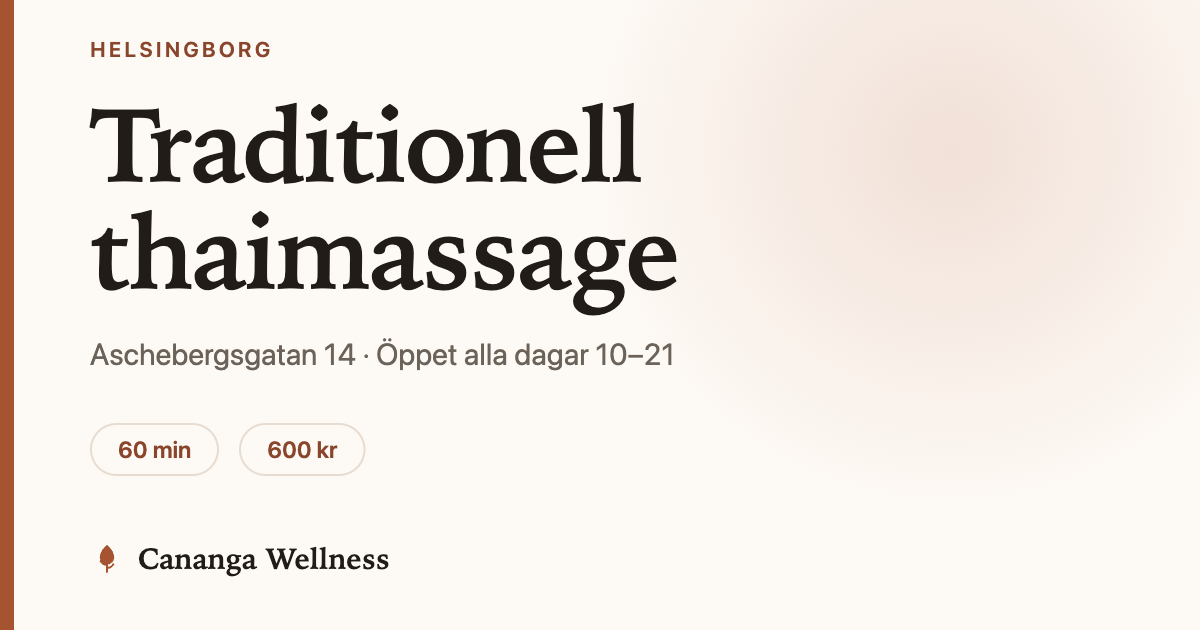
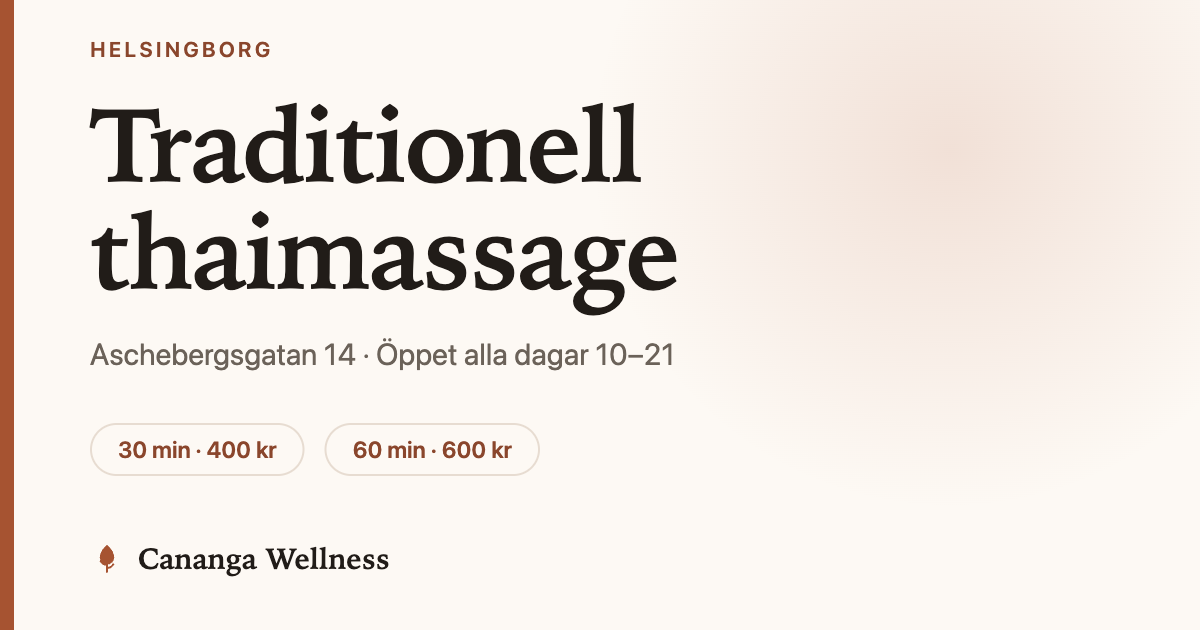
Lägg till Thaimassage 30 minuter för 400 kr
Ny behandling i översikten, med matchande Offer i JSON-LD. priceRange
blir 400–600 kr. Meta- och OG-beskrivningar samt delningsbilden visar
nu båda längderna.

Changed region(s): [[0.0925, 0.6635, 0.4317, 0.754]]

diff --git a/index.html b/index.html
@@ -5,7 +5,7 @@
 <meta name="viewport" content="width=device-width, initial-scale=1">
 
 <title>Cananga Wellness – Traditionell thaimassage i Helsingborg</title>
-<meta name="description" content="Traditionell thaimassage i Helsingborg. 60 minuters behandling för 600 kr. Öppet alla dagar 10–21 på Aschebergsgatan 14. Boka tid online.">
+<meta name="description" content="Traditionell thaimassage i Helsingborg. 30 min för 400 kr eller 60 min för 600 kr. Öppet alla dagar 10–21 på Aschebergsgatan 14. Boka tid online.">
 <link rel="canonical" href="https://peraakesson-cloud.github.io/cananga-wellness/">
 
 <meta name="theme-color" content="#FDF9F4">
@@ -16,7 +16,7 @@
 <meta property="og:locale" content="sv_SE">
 <meta property="og:site_name" content="Cananga Wellness">
 <meta property="og:title" content="Cananga Wellness – Traditionell thaimassage i Helsingborg">
-<meta property="og:description" content="60 minuters traditionell thaimassage för 600 kr. Öppet alla dagar 10–21 på Aschebergsgatan 14 i Helsingborg.">
+<meta property="og:description" content="Traditionell thaimassage: 30 min för 400 kr eller 60 min för 600 kr. Öppet alla dagar 10–21 på Aschebergsgatan 14 i Helsingborg.">
 <meta property="og:url" content="https://peraakesson-cloud.github.io/cananga-wellness/">
 <meta property="og:image" content="https://peraakesson-cloud.github.io/cananga-wellness/img/og-image.png">
 <meta property="og:image:width" content="1200">
@@ -111,6 +111,21 @@
             arbetar med händer, tummar, armbågar och fötter längs kroppens
             energilinjer, varvat med passiva stretchrörelser som mjukar upp
             hela kroppen.
+          </p>
+        </li>
+
+        <li class="treatment">
+          <div class="treatment__head">
+            <h3 class="treatment__name">Thaimassage, 30 minuter</h3>
+            <p class="treatment__price">
+              <span class="treatment__amount">400&nbsp;kr</span>
+              <span class="treatment__time">30 min</span>
+            </p>
+          </div>
+          <p class="treatment__desc">
+            En kortare behandling när tiden är knapp. Samma teknik, men vi
+            koncentrerar oss på rygg, nacke och axlar — där spänningarna
+            oftast sitter.
           </p>
         </li>
         <!-- SLUT PÅ BEHANDLINGSBLOCK -->
@@ -395,7 +410,7 @@
   "url": "https://peraakesson-cloud.github.io/cananga-wellness/",
   "image": "https://peraakesson-cloud.github.io/cananga-wellness/img/og-image.png",
   "telephone": "+46761739845",
-  "priceRange": "600 kr",
+  "priceRange": "400–600 kr",
   "currenciesAccepted": "SEK",
   "address": {
     "@type": "PostalAddress",
@@ -423,6 +438,17 @@
       "itemOffered": {
         "@type": "Service",
         "name": "Traditionell thaimassage",
+        "serviceType": "Thaimassage"
+      }
+    },
+    {
+      "@type": "Offer",
+      "price": "400",
+      "priceCurrency": "SEK",
+      "availability": "https://schema.org/InStock",
+      "itemOffered": {
+        "@type": "Service",
+        "name": "Thaimassage, 30 minuter",
         "serviceType": "Thaimassage"
       }
     }

diff --git a/README.md b/README.md
@@ -45,7 +45,9 @@ webbläsaren så ser du resultatet på en gång.
 Öppna `index.html` i en textredigerare (TextEdit, Anteckningar eller
 Visual Studio Code — vad som helst som visar ren text).
 
-Sök efter `600` så hittar du **två ställen**. Båda måste ändras.
+Sidan har två behandlingar: 60 min för 600 kr och 30 min för 400 kr.
+Sök efter priset du vill ändra (`600` eller `400`) så hittar du **två
+ställen**. Båda måste ändras.
 
 **Ställe 1 — det kunden ser:**
 
@@ -66,10 +68,13 @@ Längst ner i filen, under rubriken `STRUKTURERAD DATA`:
 
 Skriv samma siffra här. Här ska det bara vara siffror, inget "kr".
 
-Och en rad till, en bit upp i samma block:
+Varje behandling har ett eget `"price"`-block under `"makesOffer"` — se till
+att du ändrar rätt.
+
+Och en rad till, en bit upp i samma block, som visar prisspannet:
 
 ```json
-"priceRange": "600 kr",
+"priceRange": "400–600 kr",
 ```
 
 > **Varför två ställen?** Det översta är texten på sidan. Det nedersta är en
